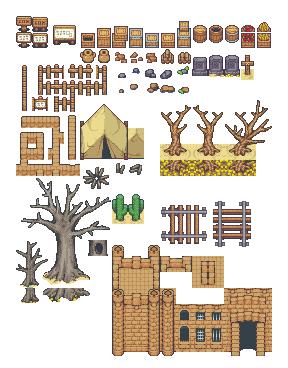
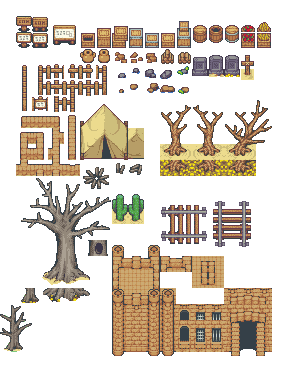
Map Work

Changed region(s): [[0.0, 0.8071, 0.125, 0.9565], [0.0625, 0.6576, 0.1562, 0.8071]]

diff --git a/GameData/Lvl/MapGenerator.cpp b/GameData/Lvl/MapGenerator.cpp
@@ -1,6 +1,7 @@
 #include "MapGenerator.h"
 #include "Biomes/Objects/Desert/Cactus.h"
 #include "Biomes/Objects/Desert/Cactus2.h"
+#include "Biomes/Objects/Desert/DeadTree.h"
 
 MapGenerator* MapGenerator::m_Instance = nullptr;
 
@@ -30,6 +31,7 @@ void MapGenerator::populateBiomeObjects()
 {
     m_biomeObjects[LEVEL_BIOME_ID_DESERT].push_back({Cactus(), 1});
     m_biomeObjects[LEVEL_BIOME_ID_DESERT].push_back({Cactus2(), 1});
+    m_biomeObjects[LEVEL_BIOME_ID_DESERT].push_back({DeadTree(), 0.5});
 }
 
 std::vector<int> MapGenerator::generateMap(uint16_t sizeX, uint16_t sizeY)

diff --git a/GameData/Lvl/Biomes/Objects/Desert/DeadTree.h b/GameData/Lvl/Biomes/Objects/Desert/DeadTree.h
@@ -1,0 +1,18 @@
+#ifndef ENFUSION___DEADTREE_H
+#define ENFUSION___DEADTREE_H
+
+#include "../StaticMapObject.h"
+
+class DeadTree : public StaticMapObject
+{
+
+public:
+    DeadTree() : StaticMapObject("Levels/desert.png", sf::IntRect(0, 304, 32, 48))
+    {
+        setBlocksMovement(true);
+    };
+
+
+};
+
+#endif //ENFUSION___DEADTREE_H
